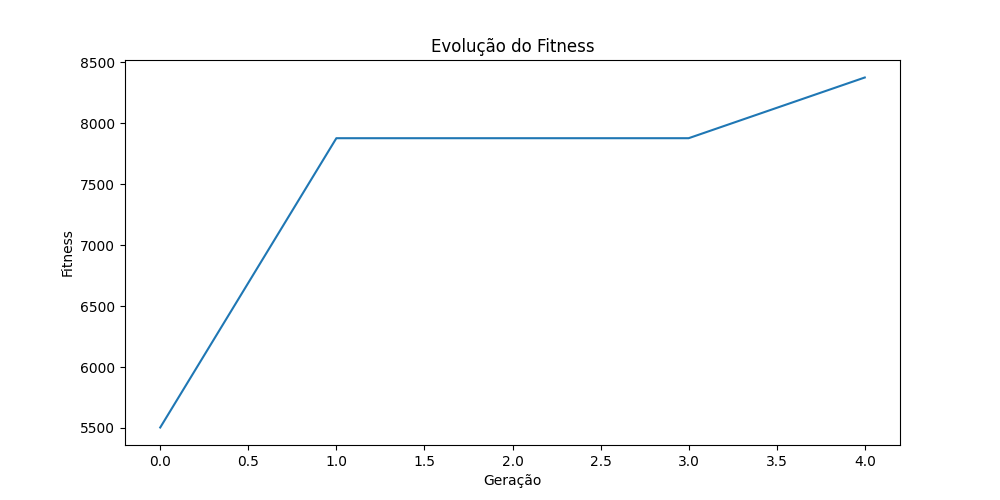
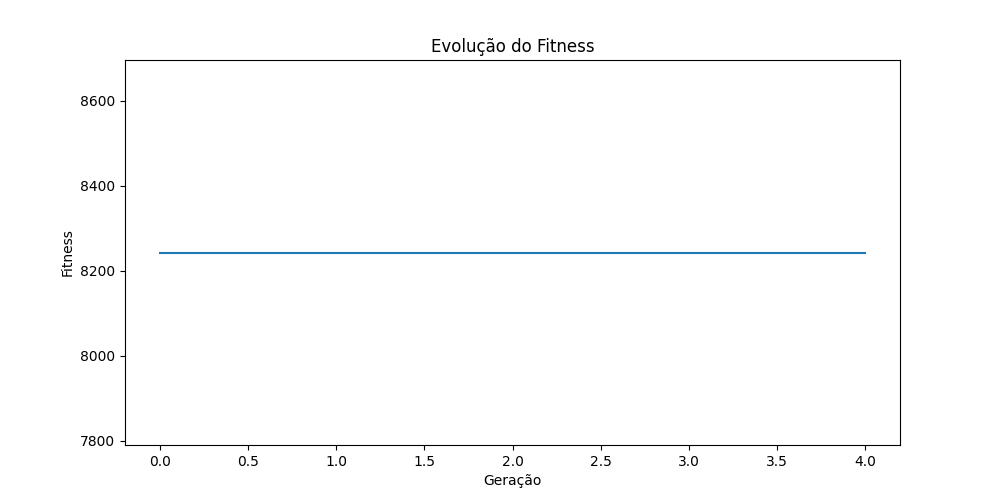
implementando mutação adaptativa para diversificar no início e refinar no final

diff --git a/robo_exercicio.py b/robo_exercicio.py
@@ -780,36 +780,23 @@ class ProgramacaoGenetica:
         
         return selecionados
     
-    def evoluir(self, n_geracoes=50):
-        # NÚMERO DE GERAÇÕES PARA O ALUNO MODIFICAR
+    def evoluir(self, n_geracoes=20):
         for geracao in range(n_geracoes):
             print(f"Geração {geracao + 1}/{n_geracoes}")
-            
+            # Calcular probabilidade de mutação adaptativa
+            prob_mutacao = 0.3 - (0.25 * geracao / (n_geracoes - 1))
             # Avaliar população
             self.avaliar_populacao()
-            
-            # Registrar melhor fitness
             self.historico_fitness.append(self.melhor_fitness)
             print(f"Melhor fitness: {self.melhor_fitness:.2f}")
-            
-            # Selecionar indivíduos
             selecionados = self.selecionar()
-            
-            # Criar nova população
-            nova_populacao = []
-            
-            # Elitismo - manter o melhor indivíduo
-            nova_populacao.append(self.melhor_individuo)
-            
-            # Preencher o resto da população
+            nova_populacao = [self.melhor_individuo]
             while len(nova_populacao) < self.tamanho_populacao:
                 pai1, pai2 = random.sample(selecionados, 2)
                 filho = pai1.crossover(pai2)
-                filho.mutacao(probabilidade=0.1)  # PROBABILIDADE DE MUTAÇÃO PARA O ALUNO MODIFICAR
+                filho.mutacao(probabilidade=prob_mutacao)
                 nova_populacao.append(filho)
-            
             self.populacao = nova_populacao
-        
         return self.melhor_individuo, self.historico_fitness
 
 # =====================================================================
